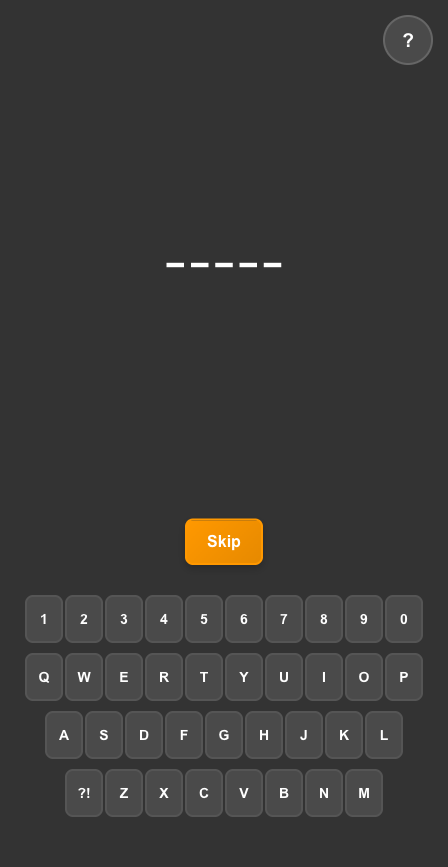
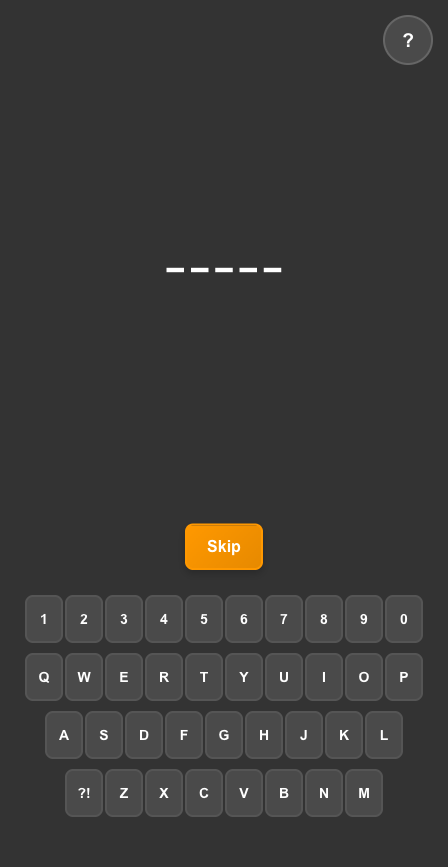
Layout adjustment for mobile + new screenshots.

Changed region(s): [[0.4062, 0.5917, 0.5938, 0.6851], [0.375, 0.2803, 0.625, 0.3426]]

diff --git a/styles/mobile.css b/styles/mobile.css
@@ -12,7 +12,9 @@
     .practice-mode {
         min-height: 100dvh; /* Use dynamic viewport height instead of 100vh */
         padding: var(--space-md);
-        gap: var(--space-lg);
+        gap: var(--space-lg); /* Restore larger gap for better spacing */
+        justify-content: flex-start; /* Original layout approach */
+        padding-top: var(--space-lg); /* Add reasonable top padding */
     }
     
     /* Fix keyboard overflow on mobile */
@@ -37,16 +39,17 @@
     .character-display, 
     .morse-display {
         font-size: 4em;
-        min-height: 120px;
-        padding: var(--space-lg);
-        margin: var(--space-md) 0;
+        min-height: 100px; /* Reduced height for mobile */
+        padding: var(--space-md); /* Reduced padding */
+        margin: var(--space-sm) 0; /* Reduced margin */
+        flex-grow: 1; /* Allow expansion to fill available space like original */
     }
     
     .morse-input {
         font-size: 2.5em;
-        min-height: 80px;
-        padding: var(--space-md);
-        margin: var(--space-md) 0;
+        min-height: 60px; /* Reduced height */
+        padding: var(--space-sm); /* Reduced padding */
+        margin: var(--space-sm) 0; /* Reduced margin */
     }
     
     .menu-btn {
@@ -86,12 +89,13 @@
     }
     
     .sound-display {
-        min-height: 180px;
+        min-height: 140px; /* Reduced for mobile fit */
+        flex-grow: 1; /* Allow expansion to fill available space like original */
     }
     
     .hint-area {
-        min-height: 100px;
-        padding: var(--space-md);
+        min-height: 80px; /* Reduced height */
+        padding: var(--space-sm); /* Reduced padding */
     }
     
     .character-feedback {
@@ -153,7 +157,7 @@
     .practice-mode {
         min-height: 100dvh; /* Use dynamic viewport height instead of 100vh */
         padding: var(--space-sm);
-        gap: var(--space-md);
+        gap: var(--space-sm); /* Even smaller gap for very small screens */
     }
     
     /* Extra compact keyboard for very small screens */
@@ -175,20 +179,21 @@
     .character-display, 
     .morse-display {
         font-size: 3.5em;
-        min-height: 100px;
-        padding: var(--space-md);
+        min-height: 80px; /* Further reduced for small screens */
+        padding: var(--space-sm);
+        flex-grow: 1; /* Allow expansion to fill available space like original */
     }
     
     .morse-input {
         font-size: 2em;
-        min-height: 60px;
-        padding: var(--space-sm);
+        min-height: 50px; /* Further reduced */
+        padding: var(--space-xs); /* Minimal padding */
     }
     
     .controls {
-        padding: var(--space-xl);
-        gap: 60px;
-        margin: var(--space-lg) 0;
+        padding: var(--space-md); /* Reduced padding */
+        gap: 40px; /* Reduced gap */
+        margin: var(--space-sm) 0; /* Reduced margin */
     }
     
     .dot-btn, .dash-btn {
@@ -252,12 +257,13 @@
     }
     
     .sound-display {
-        min-height: 160px;
+        min-height: 120px; /* Further reduced for small screens */
+        flex-grow: 1; /* Allow expansion to fill available space like original */
     }
     
     .hint-area {
-        min-height: 90px;
-        padding: 12px;
+        min-height: 70px; /* Further reduced */
+        padding: var(--space-xs); /* Minimal padding */
     }
     
     .hint-area::before {

diff --git a/styles/game-modes.css b/styles/game-modes.css
@@ -2,7 +2,7 @@
 .character-display, 
 .morse-display {
     font-size: 5em;
-    flex-grow: 1;
+    flex-grow: 1; /* Restored original flex-grow for proper space distribution */
     display: flex;
     justify-content: center;
     align-items: center;
@@ -28,7 +28,7 @@
     flex-direction: column;
     align-items: center;
     justify-content: center;
-    flex-grow: 1;
+    flex-grow: 1; /* Restored original flex-grow for proper space distribution */
     min-height: 200px;
     margin-bottom: var(--space-lg);
 }
